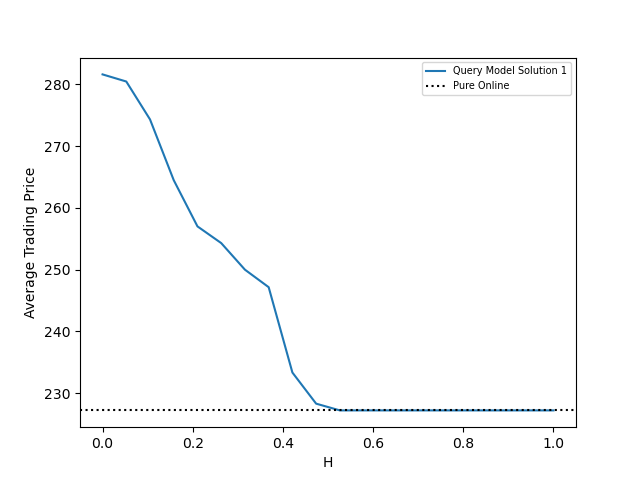
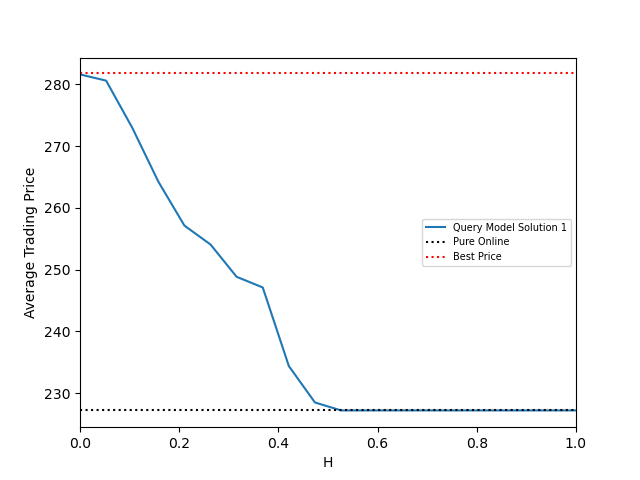
Query model Solution 1

diff --git a/query_s1.py b/query_s1.py
@@ -185,6 +185,8 @@ def main():
     fig, ax = plt.subplots()
     ax.plot(H_list, price_list, label='Query Model Solution 1')
     ax.axhline(pure_online, color='black', ls='dotted', label='Pure Online')
+    ax.axhline(v_star, color='red', ls='dotted', label='Best Price')
+    ax.set_xlim([0,1])
     #plt.xticks([-2.5, -2.0, -1.5, -1.0, -0.5, 0.0, 0.5], ['2.5', '2.0', '1.5', '1.0', '0.5', '0.0', '0.5'])
     ax.set_xlabel("H")
     ax.set_ylabel("Average Trading Price")
